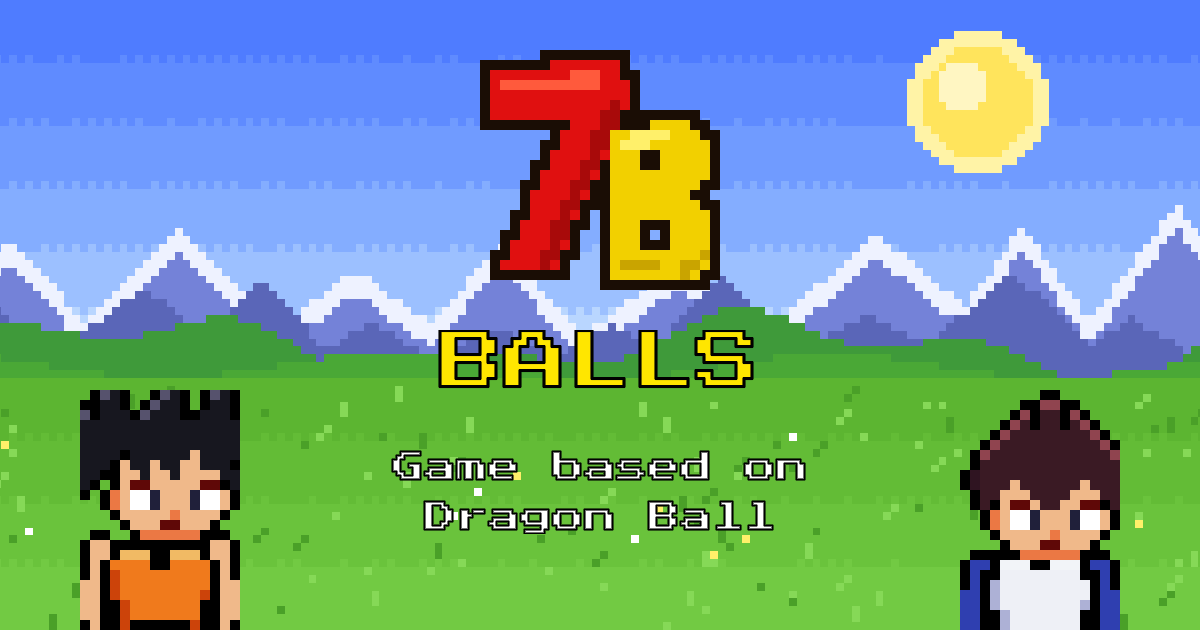
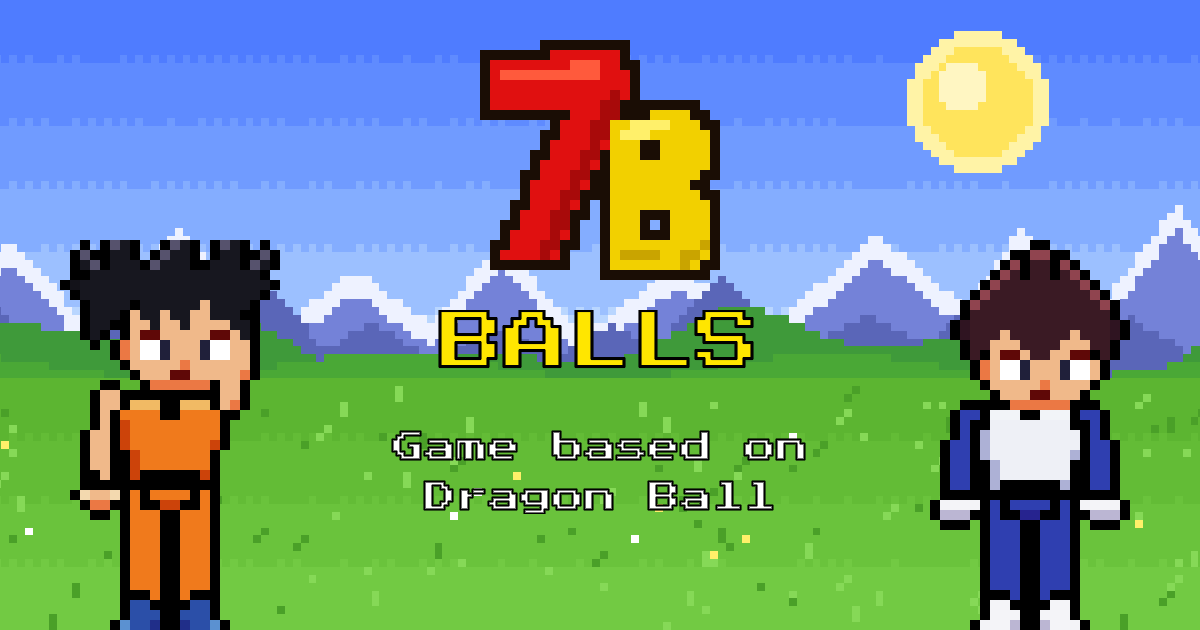
chore: draw the Open Graph image from the current art
- add scripts/draw-og-image.js: the landscape, the logo, the name and
  Son Goku and Vegeta in their winning poses, enlarged twice
- describe it in CONTRIBUTING

diff --git a/scripts/draw-og-image.js b/scripts/draw-og-image.js
@@ -1,0 +1,47 @@
+'use strict';
+
+// Draws the Open Graph image (1200x630) from the art of the game: the
+// landscape, the logo, the name and Son Goku and Vegeta in their winning
+// poses, all enlarged twice without smoothing. Run it after the art
+// generators, so it shows the current characters.
+// Requires ImageMagick (`magick`).
+//
+// Usage: node scripts/draw-og-image.js
+
+const path = require('path');
+const { execFileSync } = require('child_process');
+
+const root = path.resolve(__dirname, '..');
+const pixelart = path.join(root, 'src/public/assets/pixelart');
+const font = path.join(root, 'src/public/assets/fonts/PressStart2P-Regular.ttf');
+const output = path.join(root, 'src/public/og-image.png');
+
+// A frame of a fight sheet (150x200): column and row of the winning poses.
+const FRAME = { width: 150, height: 200 };
+const POSES = { left: [1, 3], right: [0, 3] };
+
+const frame = (id, [column, row]) => [
+    // +gravity: the crop counts from the top left corner, whatever the gravity outside.
+    '(', '+gravity', path.join(pixelart, `fight/${id}/${id}-spritesheet.png`),
+    '-crop', `${FRAME.width}x${FRAME.height}+${column * FRAME.width}+${row * FRAME.height}`, '+repage',
+    '-filter', 'point', '-resize', '200%', ')'
+];
+
+execFileSync('magick', [
+    path.join(pixelart, 'backgrounds/select-player/select-player.png'),
+    '-filter', 'point', '-resize', '1200x630^', '-gravity', 'north', '-extent', '1200x630',
+    '(', path.join(pixelart, 'logo/logo.png'), '-filter', 'point', '-resize', '200%', ')',
+    '-gravity', 'north', '-geometry', '+0+30', '-composite',
+    '(', '-background', 'none', '-fill', '#ffe600', '-stroke', 'black', '-strokewidth', '3',
+    '-font', font, '-pointsize', '64', 'label:BALLS', ')',
+    '-gravity', 'north', '-geometry', '+0+310', '-composite',
+    '(', '-background', 'none', '-fill', 'white', '-stroke', 'black', '-strokewidth', '2',
+    '-font', font, '-pointsize', '32', '-interline-spacing', '18', '-gravity', 'center',
+    'label:Game based on\nDragon Ball', ')',
+    '-gravity', 'north', '-geometry', '+0+430', '-composite',
+    ...frame('son-goku', POSES.left), '-gravity', 'southwest', '-geometry', '+20-10', '-composite',
+    ...frame('vegeta', POSES.right), '-gravity', 'southeast', '-geometry', '+20-10', '-composite',
+    '-strip', output
+]);
+
+console.log(`[draw-og-image] ${path.relative(root, output)}`);

diff --git a/CONTRIBUTING.md b/CONTRIBUTING.md
@@ -154,6 +154,12 @@ node scripts/draw-scenery.js
 node scripts/draw-mazes.js
 ```
 
+Obrazek Open Graph (`src/public/og-image.png`, 1200x630) składa z grafik gry czwarty skrypt; uruchom go po generatorach postaci, żeby pokazywał aktualne postacie:
+
+```bash
+node scripts/draw-og-image.js
+```
+
 Labirynty 1-3 są zrobione ręcznie w Tiled; skrypt dokłada 4-10 i sprawdza, że da się dojść do każdej kuli w rozsądnym czasie.
 
 ## Zrzuty ekranu
